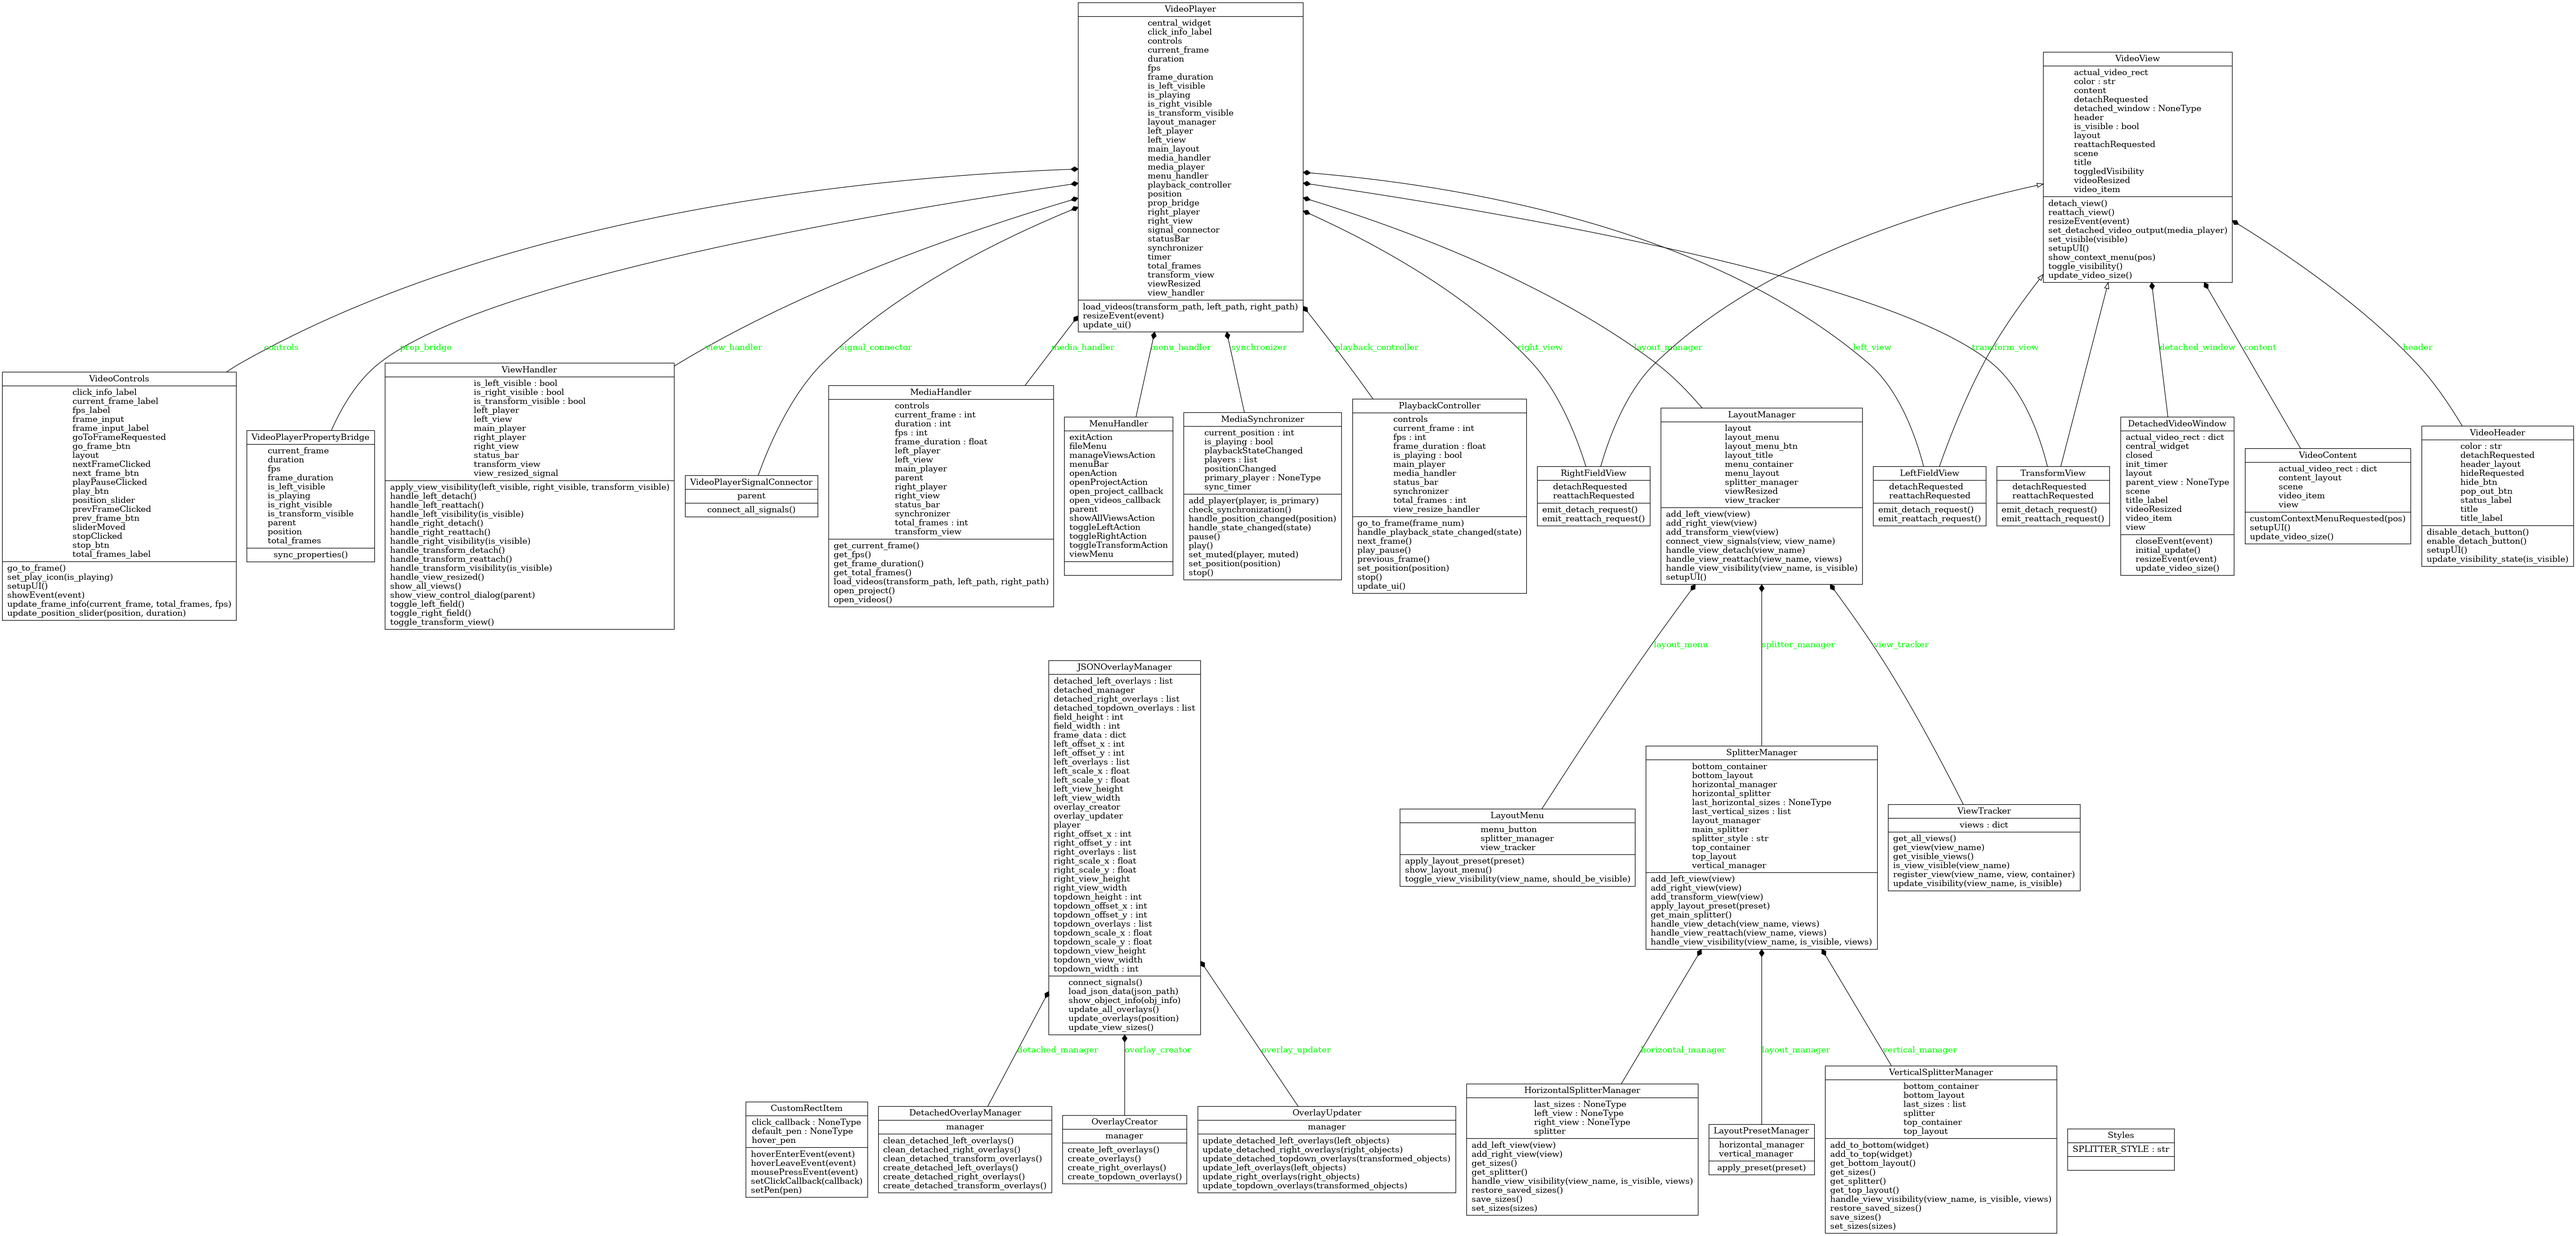
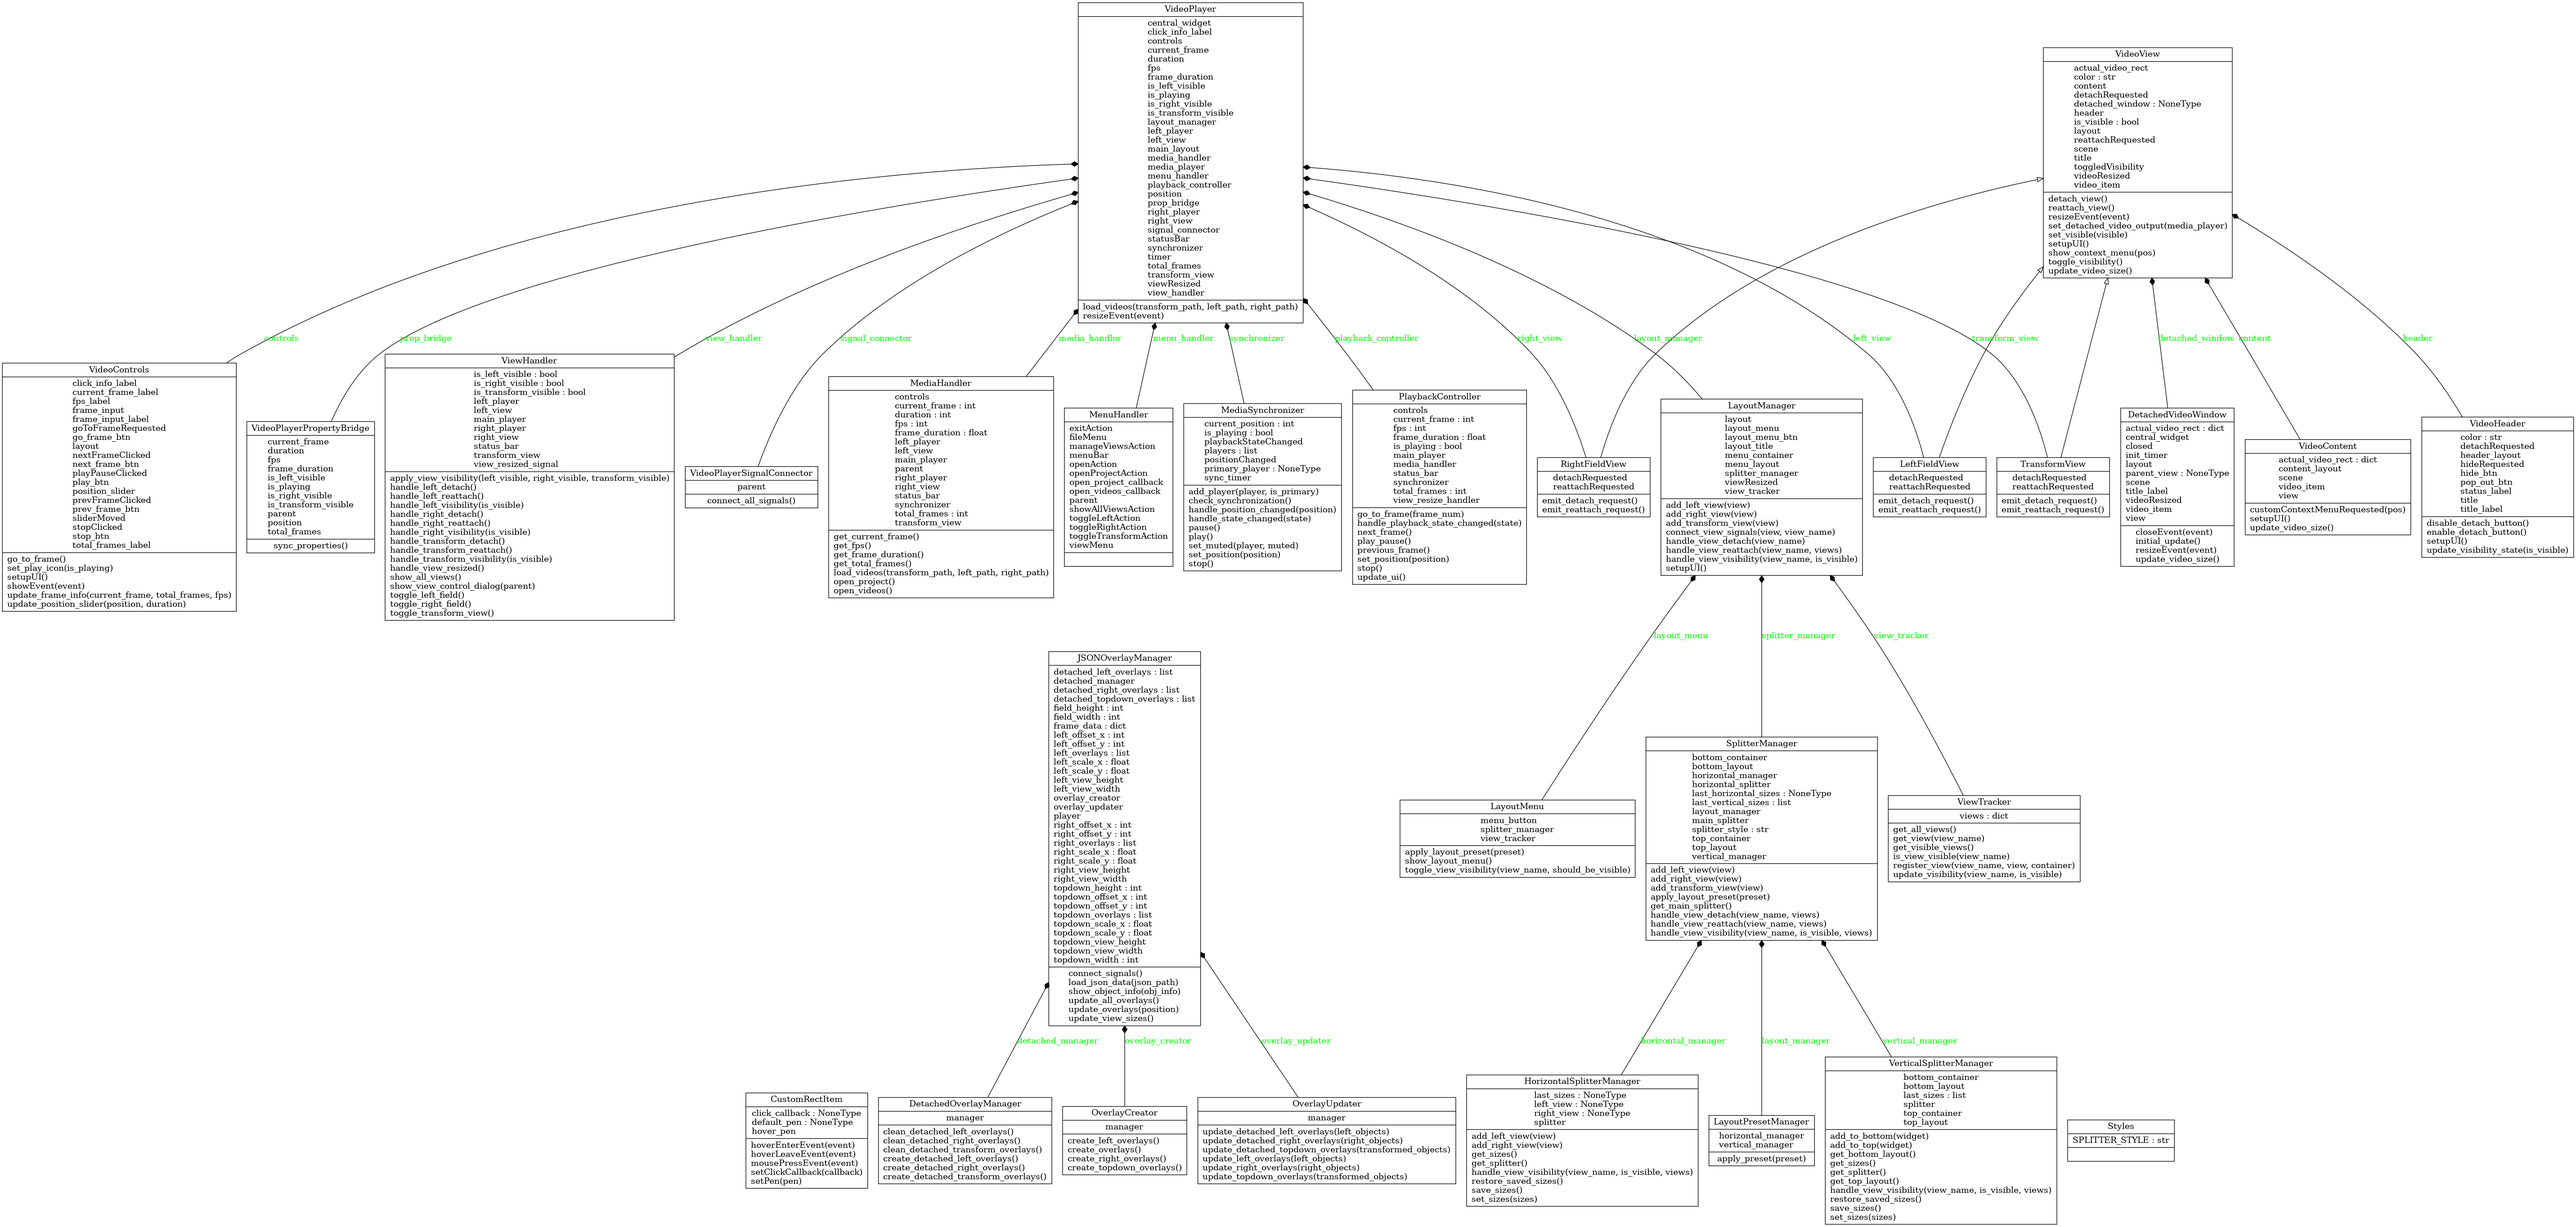
go_to_frame buf fix

diff --git a/video/handlers/playback_controller.py b/video/handlers/playback_controller.py
@@ -1,3 +1,4 @@
+from PyQt6.QtCore import QTimer
 from PyQt6.QtMultimedia import QMediaPlayer
 
 
@@ -105,6 +106,13 @@ class PlaybackController:
             self.controls.update_frame_info(
                 self.current_frame, self.total_frames, self.fps
             )
+
+            # Explicitly force overlay update after position change
+            # This ensures overlays are updated after the position change is processed
+            QTimer.singleShot(
+                50, lambda: self.main_player.positionChanged.emit(position)
+            )
+
             self.status_bar.showMessage(f"Moved to frame {frame_num}")
         else:
             self.status_bar.showMessage(
